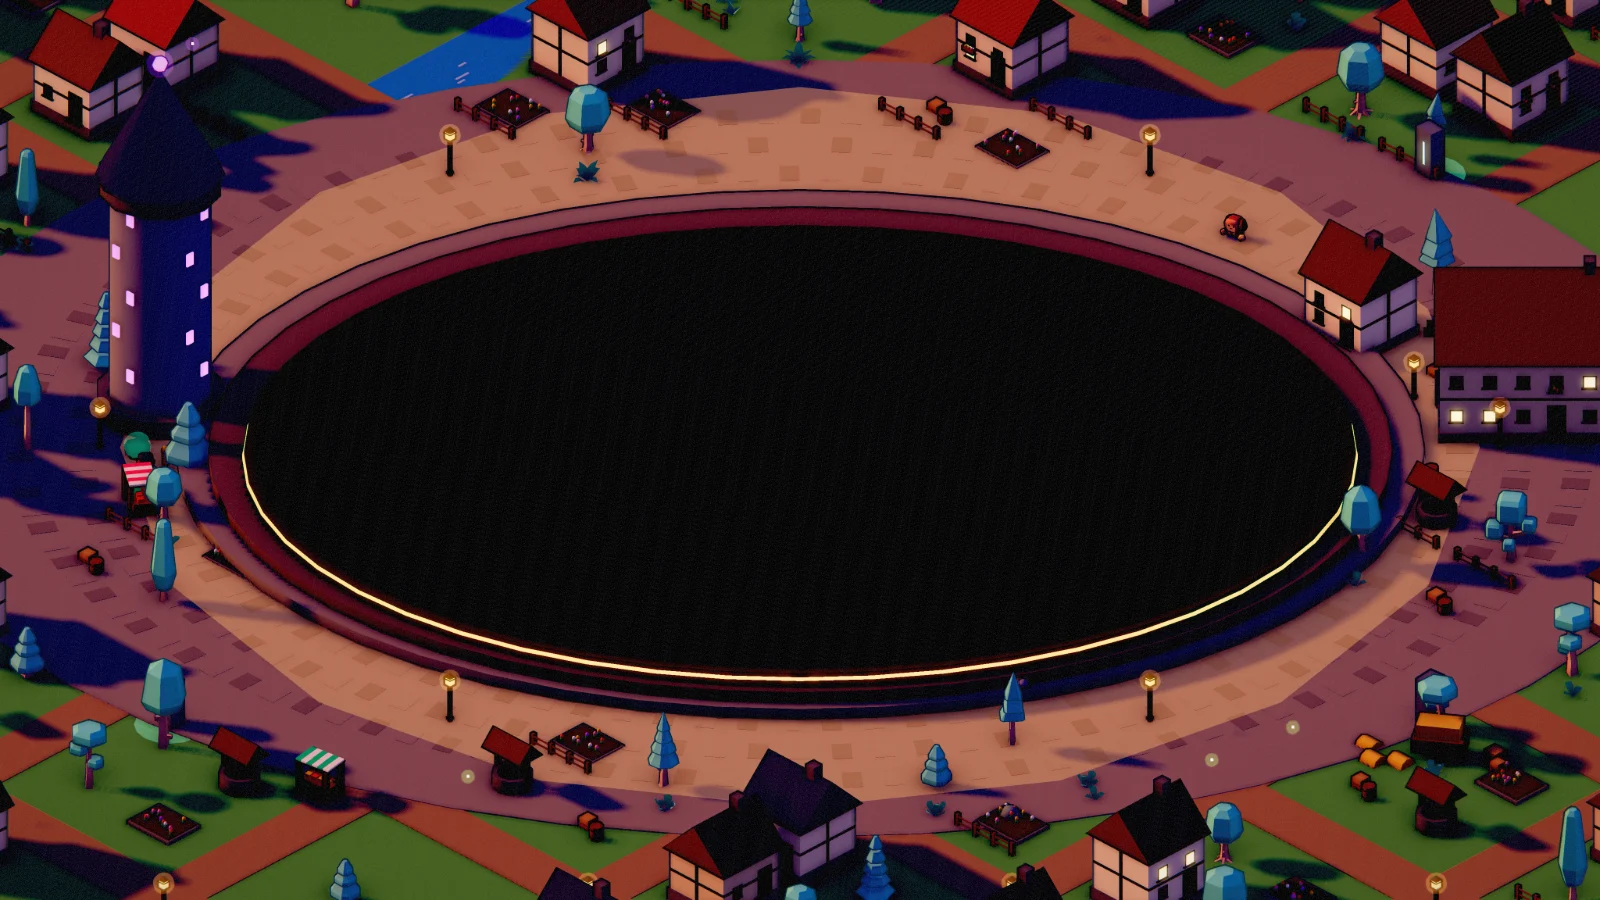
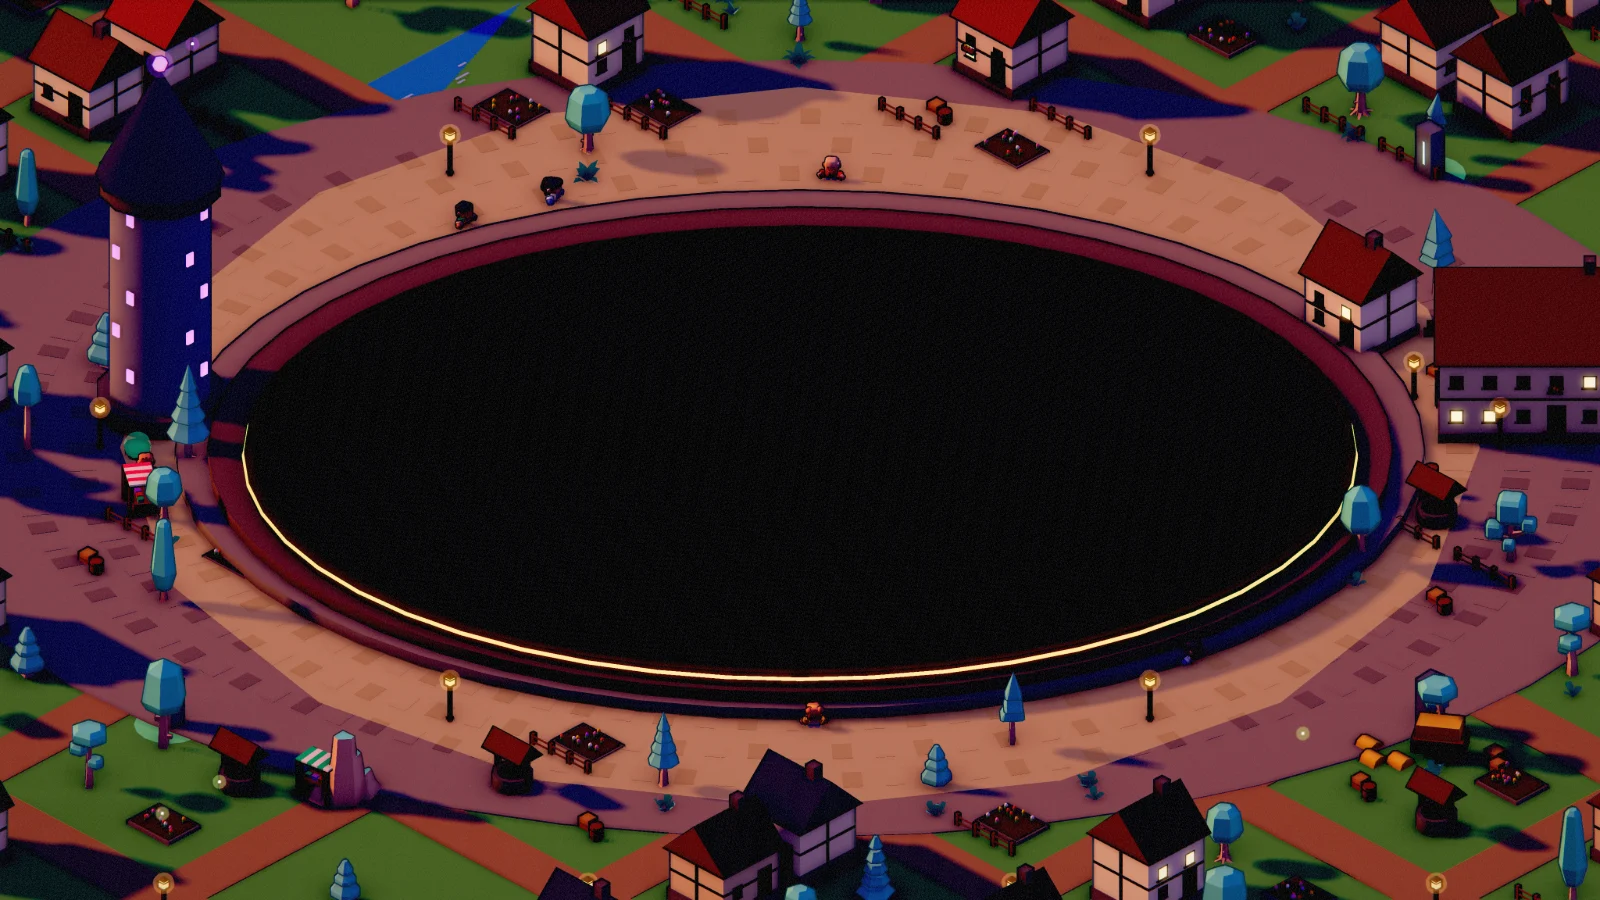
Bring sakura's pagoda into frame and re-shoot the rooms page stills
At sx - a - 12.5 the pagoda sat on the frame's left edge; at sx - a - 9
it stands whole in the left band, its own half-width plus two clear of
the table. The six stills are re-shot (make rooms) with every fix of this
branch: no ferris wheel on the marina, the velvet sign facing the square,
neon's truck broadside.

Claude-Session: https://claude.ai/code/session_01G2tsbnLnY7CRPYrLRyDPij

diff --git a/client/src/components/scene/maps/sakura.ts b/client/src/components/scene/maps/sakura.ts
@@ -64,7 +64,7 @@ export const sakura: Builder = (k) => {
   const bathSpot = { sx: sx + a + 12.5, sy: sy + 2 }
   // In the left band, opposite the bathhouse: sixteen tiles tall in the band
   // above the table, its roofs ran off the top of every frame.
-  const pagodaSpot = { sx: sx - a - 12.5, sy: sy + 3 }
+  const pagodaSpot = { sx: sx - a - 9, sy: sy + 3 }
   const toriiSpot = { sx: sx - a - 4, sy: sy - b - 5 }
   const near = nearSpot
 
